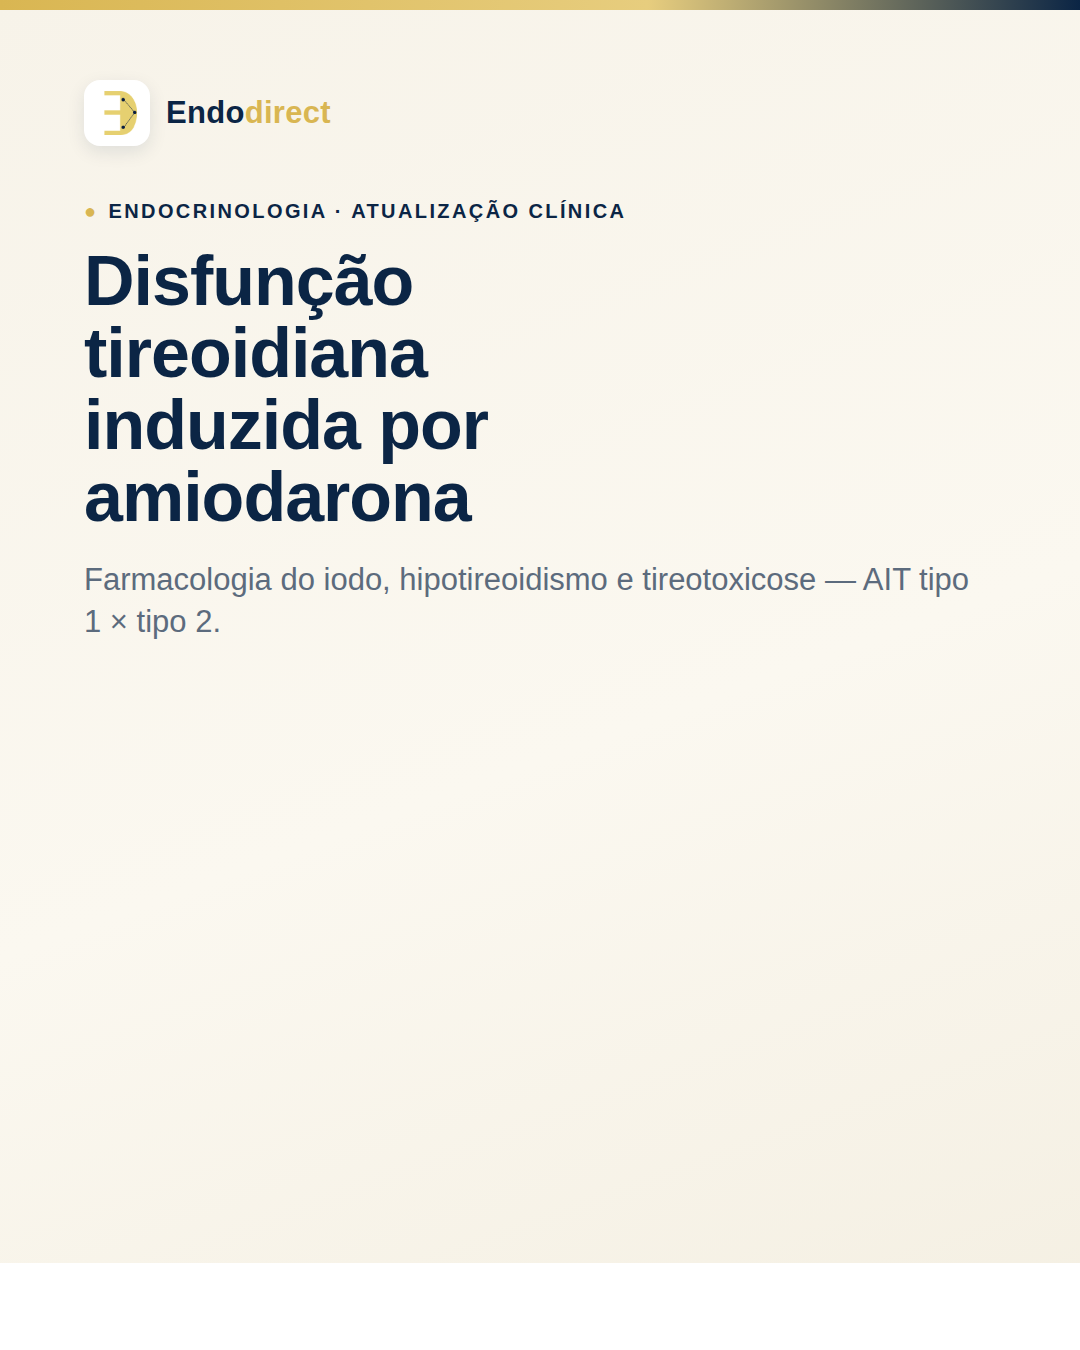
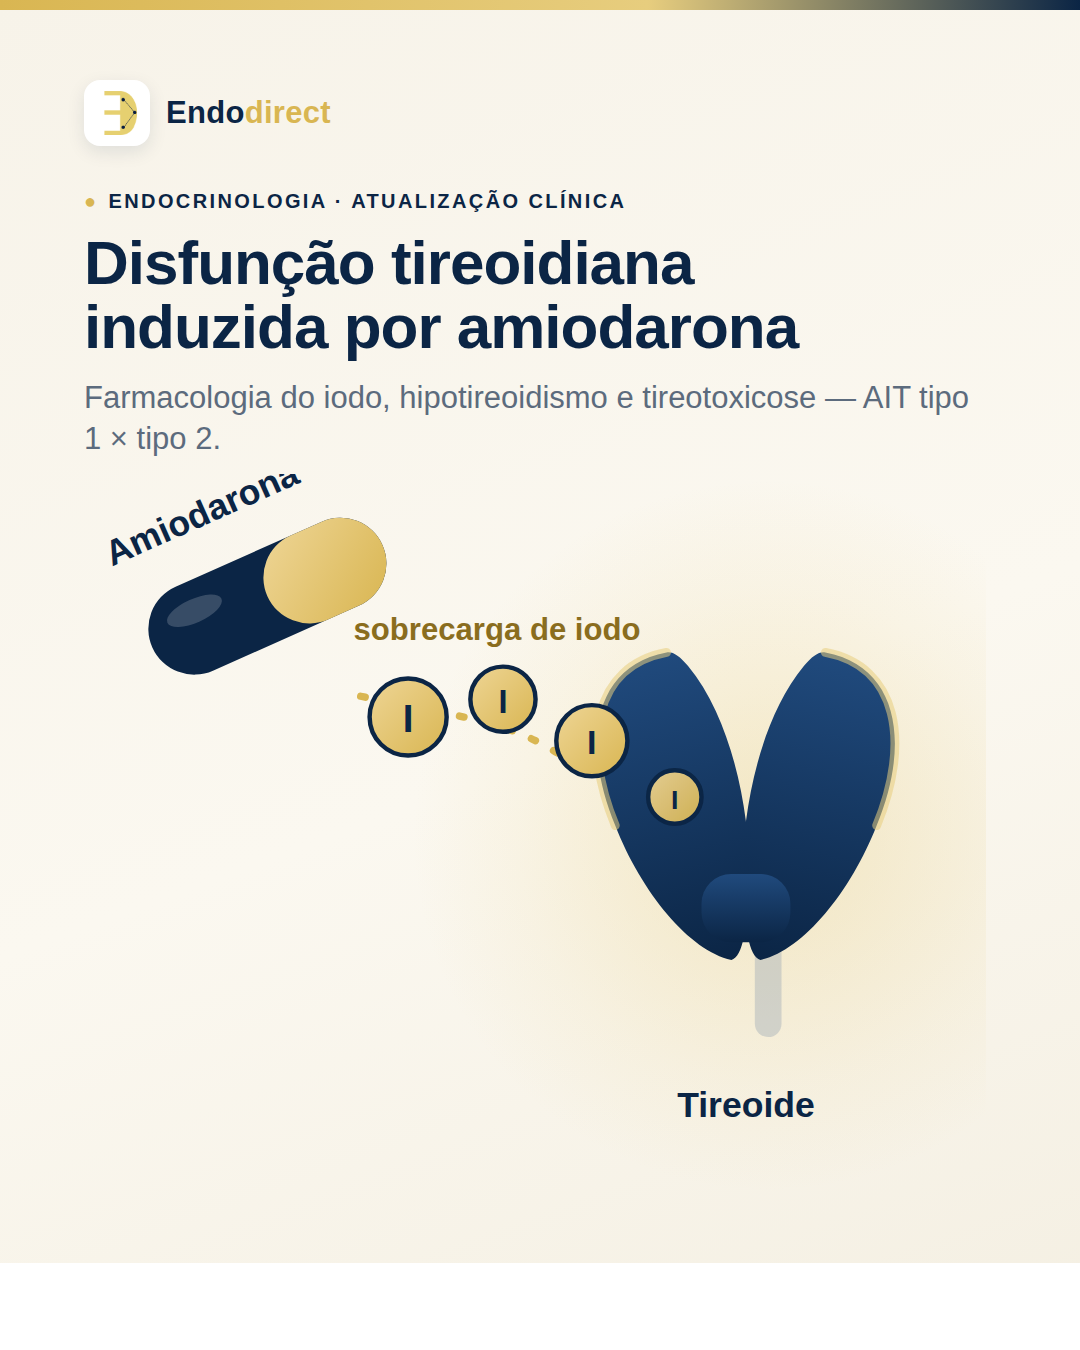
post IG amiodarona: ilustração vetorial (amiodarona → iodo → tireoide) na capa

diff --git a/scratchpad/ig_amiodarona/canva.html b/scratchpad/ig_amiodarona/canva.html
@@ -80,9 +80,42 @@ html,body{width:auto;height:auto;background:#fff}
 </style></head><body>
 <section class="slide" data-document-role="page" data-label="Capa">
[1 lines of base64/hex data omitted]
-  <div class="kicker"><span class="n">●</span>Endocrinologia · Atualização clínica</div>
-  <h1>Disfunção<br>tireoidiana<br>induzida por<br>amiodarona</h1>
-  <div class="sub">Farmacologia do iodo, hipotireoidismo e tireotoxicose — AIT tipo 1 × tipo 2.</div>
+  <div class="kicker" style="margin-top:44px"><span class="n">●</span>Endocrinologia · Atualização clínica</div>
+  <h1 style="margin-top:18px;font-size:62px">Disfunção tireoidiana<br>induzida por amiodarona</h1>
+  <div class="sub" style="margin-top:18px">Farmacologia do iodo, hipotireoidismo e tireotoxicose — AIT tipo 1 × tipo 2.</div>
+  <div style="margin-top:14px;text-align:center"><svg viewBox="120 86 602 486" xmlns="http://www.w3.org/2000/svg" style="width:892px;height:auto">
+  <defs>
+    <radialGradient id="halo" cx="50%" cy="50%" r="50%">
+      <stop offset="0%" stop-color="#e7cd7e" stop-opacity=".40"/><stop offset="70%" stop-color="#e7cd7e" stop-opacity=".10"/><stop offset="100%" stop-color="#e7cd7e" stop-opacity="0"/>
+    </radialGradient>
+    <linearGradient id="gnavy" x1="0" y1="0" x2="0" y2="1"><stop offset="0%" stop-color="#204a7d"/><stop offset="100%" stop-color="#0b2545"/></linearGradient>
+    <linearGradient id="ggold" x1="0" y1="0" x2="1" y2="1"><stop offset="0%" stop-color="#eed595"/><stop offset="100%" stop-color="#d9b652"/></linearGradient>
+  </defs>
+  <circle cx="575" cy="330" r="240" fill="url(#halo)"/>
+  <g>
+    <rect x="566" y="392" width="18" height="74" rx="9" fill="#9aa7b4" opacity=".40"/>
+    <path d="M0,-96 C50,-98 70,-50 60,10 C53,58 30,104 4,116 C-4,116 -12,96 -20,66 C-30,26 -34,-40 -12,-84 C-8,-92 -4,-96 0,-96 Z" transform="translate(592 300) rotate(13)" fill="url(#gnavy)"/>
+    <path d="M0,-96 C-50,-98 -70,-50 -60,10 C-53,58 -30,104 -4,116 C4,116 12,96 20,66 C30,26 34,-40 12,-84 C8,-92 4,-96 0,-96 Z" transform="translate(528 300) rotate(-13)" fill="url(#gnavy)"/>
+    <rect x="530" y="356" width="60" height="46" rx="20" fill="url(#gnavy)"/>
+    <path d="M0,-96 C50,-98 70,-50 60,10" transform="translate(592 300) rotate(13)" fill="none" stroke="#e7cd7e" stroke-width="6" opacity=".55" stroke-linecap="round"/>
+    <path d="M0,-96 C-50,-98 -70,-50 -60,10" transform="translate(528 300) rotate(-13)" fill="none" stroke="#e7cd7e" stroke-width="6" opacity=".55" stroke-linecap="round"/>
+  </g>
+  <g transform="rotate(-24 230 165)">
+    <rect x="150" y="140" width="170" height="62" rx="31" fill="#0b2545"/>
+    <rect x="235" y="140" width="85" height="62" rx="31" fill="url(#ggold)"/>
+    <ellipse cx="186" cy="160" rx="20" ry="8" fill="#ffffff" opacity=".18"/>
+  </g>
+  <path d="M300 236 C372 252 404 250 452 288" fill="none" stroke="#d9b652" stroke-width="5" stroke-dasharray="3 14" stroke-linecap="round"/>
+  <g font-family="'Segoe UI',Arial,sans-serif" font-weight="800" text-anchor="middle">
+    <g><circle cx="332" cy="250" r="26" fill="url(#ggold)" stroke="#0b2545" stroke-width="3"/><text x="332" y="260" font-size="26" fill="#0b2545">I</text></g>
+    <g><circle cx="396" cy="238" r="22" fill="url(#ggold)" stroke="#0b2545" stroke-width="3"/><text x="396" y="247" font-size="22" fill="#0b2545">I</text></g>
+    <g><circle cx="456" cy="266" r="24" fill="url(#ggold)" stroke="#0b2545" stroke-width="3"/><text x="456" y="275" font-size="23" fill="#0b2545">I</text></g>
+    <g opacity=".95"><circle cx="512" cy="304" r="18" fill="url(#ggold)" stroke="#0b2545" stroke-width="3"/><text x="512" y="312" font-size="18" fill="#0b2545">I</text></g>
+  </g>
+  <text x="196" y="120" font-family="'Segoe UI',Arial,sans-serif" font-size="24" font-weight="800" fill="#0b2545" text-anchor="middle" transform="rotate(-24 196 120)">Amiodarona</text>
+  <text x="392" y="198" font-family="'Segoe UI',Arial,sans-serif" font-size="21" font-weight="700" fill="#8a6d1e" text-anchor="middle">sobrecarga de iodo</text>
+  <text x="560" y="520" font-family="'Segoe UI',Arial,sans-serif" font-size="24" font-weight="800" fill="#0b2545" text-anchor="middle">Tireoide</text>
+</svg></div>
   <div class="foot"><span class="hd">@endodirect</span><span class="swipe">arraste →</span></div>
 </section>
 <section class="slide" data-document-role="page" data-label="Farmacologia (carga de iodo)">

diff --git a/scratchpad/ig_amiodarona/slide1.html b/scratchpad/ig_amiodarona/slide1.html
@@ -77,8 +77,41 @@ td.k{font-weight:800;color:var(--navy)}
   font-weight:700;color:var(--navy);box-shadow:0 6px 16px rgba(11,37,69,.06)}
 </style></head><body><div class="slide">
[1 lines of base64/hex data omitted]
-  <div class="kicker"><span class="n">●</span>Endocrinologia · Atualização clínica</div>
-  <h1>Disfunção<br>tireoidiana<br>induzida por<br>amiodarona</h1>
-  <div class="sub">Farmacologia do iodo, hipotireoidismo e tireotoxicose — AIT tipo 1 × tipo 2.</div>
+  <div class="kicker" style="margin-top:44px"><span class="n">●</span>Endocrinologia · Atualização clínica</div>
+  <h1 style="margin-top:18px;font-size:62px">Disfunção tireoidiana<br>induzida por amiodarona</h1>
+  <div class="sub" style="margin-top:18px">Farmacologia do iodo, hipotireoidismo e tireotoxicose — AIT tipo 1 × tipo 2.</div>
+  <div style="margin-top:14px;text-align:center"><svg viewBox="120 86 602 486" xmlns="http://www.w3.org/2000/svg" style="width:892px;height:auto">
+  <defs>
+    <radialGradient id="halo" cx="50%" cy="50%" r="50%">
+      <stop offset="0%" stop-color="#e7cd7e" stop-opacity=".40"/><stop offset="70%" stop-color="#e7cd7e" stop-opacity=".10"/><stop offset="100%" stop-color="#e7cd7e" stop-opacity="0"/>
+    </radialGradient>
+    <linearGradient id="gnavy" x1="0" y1="0" x2="0" y2="1"><stop offset="0%" stop-color="#204a7d"/><stop offset="100%" stop-color="#0b2545"/></linearGradient>
+    <linearGradient id="ggold" x1="0" y1="0" x2="1" y2="1"><stop offset="0%" stop-color="#eed595"/><stop offset="100%" stop-color="#d9b652"/></linearGradient>
+  </defs>
+  <circle cx="575" cy="330" r="240" fill="url(#halo)"/>
+  <g>
+    <rect x="566" y="392" width="18" height="74" rx="9" fill="#9aa7b4" opacity=".40"/>
+    <path d="M0,-96 C50,-98 70,-50 60,10 C53,58 30,104 4,116 C-4,116 -12,96 -20,66 C-30,26 -34,-40 -12,-84 C-8,-92 -4,-96 0,-96 Z" transform="translate(592 300) rotate(13)" fill="url(#gnavy)"/>
+    <path d="M0,-96 C-50,-98 -70,-50 -60,10 C-53,58 -30,104 -4,116 C4,116 12,96 20,66 C30,26 34,-40 12,-84 C8,-92 4,-96 0,-96 Z" transform="translate(528 300) rotate(-13)" fill="url(#gnavy)"/>
+    <rect x="530" y="356" width="60" height="46" rx="20" fill="url(#gnavy)"/>
+    <path d="M0,-96 C50,-98 70,-50 60,10" transform="translate(592 300) rotate(13)" fill="none" stroke="#e7cd7e" stroke-width="6" opacity=".55" stroke-linecap="round"/>
+    <path d="M0,-96 C-50,-98 -70,-50 -60,10" transform="translate(528 300) rotate(-13)" fill="none" stroke="#e7cd7e" stroke-width="6" opacity=".55" stroke-linecap="round"/>
+  </g>
+  <g transform="rotate(-24 230 165)">
+    <rect x="150" y="140" width="170" height="62" rx="31" fill="#0b2545"/>
+    <rect x="235" y="140" width="85" height="62" rx="31" fill="url(#ggold)"/>
+    <ellipse cx="186" cy="160" rx="20" ry="8" fill="#ffffff" opacity=".18"/>
+  </g>
+  <path d="M300 236 C372 252 404 250 452 288" fill="none" stroke="#d9b652" stroke-width="5" stroke-dasharray="3 14" stroke-linecap="round"/>
+  <g font-family="'Segoe UI',Arial,sans-serif" font-weight="800" text-anchor="middle">
+    <g><circle cx="332" cy="250" r="26" fill="url(#ggold)" stroke="#0b2545" stroke-width="3"/><text x="332" y="260" font-size="26" fill="#0b2545">I</text></g>
+    <g><circle cx="396" cy="238" r="22" fill="url(#ggold)" stroke="#0b2545" stroke-width="3"/><text x="396" y="247" font-size="22" fill="#0b2545">I</text></g>
+    <g><circle cx="456" cy="266" r="24" fill="url(#ggold)" stroke="#0b2545" stroke-width="3"/><text x="456" y="275" font-size="23" fill="#0b2545">I</text></g>
+    <g opacity=".95"><circle cx="512" cy="304" r="18" fill="url(#ggold)" stroke="#0b2545" stroke-width="3"/><text x="512" y="312" font-size="18" fill="#0b2545">I</text></g>
+  </g>
+  <text x="196" y="120" font-family="'Segoe UI',Arial,sans-serif" font-size="24" font-weight="800" fill="#0b2545" text-anchor="middle" transform="rotate(-24 196 120)">Amiodarona</text>
+  <text x="392" y="198" font-family="'Segoe UI',Arial,sans-serif" font-size="21" font-weight="700" fill="#8a6d1e" text-anchor="middle">sobrecarga de iodo</text>
+  <text x="560" y="520" font-family="'Segoe UI',Arial,sans-serif" font-size="24" font-weight="800" fill="#0b2545" text-anchor="middle">Tireoide</text>
+</svg></div>
   <div class="foot"><span class="hd">@endodirect</span><span class="swipe">arraste →</span></div>
 </div></body></html>

diff --git a/scratchpad/ig_amiodarona/build_slides.js b/scratchpad/ig_amiodarona/build_slides.js
@@ -81,6 +81,41 @@ td.k{font-weight:800;color:var(--navy)}
 `;
 
 function brand(){return `<div class="brand"><div class="badge"><img src="${LOGO}"></div><div class="wm">Endo<b>direct</b></div></div>`;}
+
+// Ilustração vetorial: amiodarona (cápsula) liberando iodo (I) sobre a tireoide.
+const ILLUS=`<svg viewBox="120 86 602 486" xmlns="http://www.w3.org/2000/svg" style="width:892px;height:auto">
+  <defs>
+    <radialGradient id="halo" cx="50%" cy="50%" r="50%">
+      <stop offset="0%" stop-color="#e7cd7e" stop-opacity=".40"/><stop offset="70%" stop-color="#e7cd7e" stop-opacity=".10"/><stop offset="100%" stop-color="#e7cd7e" stop-opacity="0"/>
+    </radialGradient>
+    <linearGradient id="gnavy" x1="0" y1="0" x2="0" y2="1"><stop offset="0%" stop-color="#204a7d"/><stop offset="100%" stop-color="#0b2545"/></linearGradient>
+    <linearGradient id="ggold" x1="0" y1="0" x2="1" y2="1"><stop offset="0%" stop-color="#eed595"/><stop offset="100%" stop-color="#d9b652"/></linearGradient>
+  </defs>
+  <circle cx="575" cy="330" r="240" fill="url(#halo)"/>
+  <g>
+    <rect x="566" y="392" width="18" height="74" rx="9" fill="#9aa7b4" opacity=".40"/>
+    <path d="M0,-96 C50,-98 70,-50 60,10 C53,58 30,104 4,116 C-4,116 -12,96 -20,66 C-30,26 -34,-40 -12,-84 C-8,-92 -4,-96 0,-96 Z" transform="translate(592 300) rotate(13)" fill="url(#gnavy)"/>
+    <path d="M0,-96 C-50,-98 -70,-50 -60,10 C-53,58 -30,104 -4,116 C4,116 12,96 20,66 C30,26 34,-40 12,-84 C8,-92 4,-96 0,-96 Z" transform="translate(528 300) rotate(-13)" fill="url(#gnavy)"/>
+    <rect x="530" y="356" width="60" height="46" rx="20" fill="url(#gnavy)"/>
+    <path d="M0,-96 C50,-98 70,-50 60,10" transform="translate(592 300) rotate(13)" fill="none" stroke="#e7cd7e" stroke-width="6" opacity=".55" stroke-linecap="round"/>
+    <path d="M0,-96 C-50,-98 -70,-50 -60,10" transform="translate(528 300) rotate(-13)" fill="none" stroke="#e7cd7e" stroke-width="6" opacity=".55" stroke-linecap="round"/>
+  </g>
+  <g transform="rotate(-24 230 165)">
+    <rect x="150" y="140" width="170" height="62" rx="31" fill="#0b2545"/>
+    <rect x="235" y="140" width="85" height="62" rx="31" fill="url(#ggold)"/>
+    <ellipse cx="186" cy="160" rx="20" ry="8" fill="#ffffff" opacity=".18"/>
+  </g>
+  <path d="M300 236 C372 252 404 250 452 288" fill="none" stroke="#d9b652" stroke-width="5" stroke-dasharray="3 14" stroke-linecap="round"/>
+  <g font-family="'Segoe UI',Arial,sans-serif" font-weight="800" text-anchor="middle">
+    <g><circle cx="332" cy="250" r="26" fill="url(#ggold)" stroke="#0b2545" stroke-width="3"/><text x="332" y="260" font-size="26" fill="#0b2545">I</text></g>
+    <g><circle cx="396" cy="238" r="22" fill="url(#ggold)" stroke="#0b2545" stroke-width="3"/><text x="396" y="247" font-size="22" fill="#0b2545">I</text></g>
+    <g><circle cx="456" cy="266" r="24" fill="url(#ggold)" stroke="#0b2545" stroke-width="3"/><text x="456" y="275" font-size="23" fill="#0b2545">I</text></g>
+    <g opacity=".95"><circle cx="512" cy="304" r="18" fill="url(#ggold)" stroke="#0b2545" stroke-width="3"/><text x="512" y="312" font-size="18" fill="#0b2545">I</text></g>
+  </g>
+  <text x="196" y="120" font-family="'Segoe UI',Arial,sans-serif" font-size="24" font-weight="800" fill="#0b2545" text-anchor="middle" transform="rotate(-24 196 120)">Amiodarona</text>
+  <text x="392" y="198" font-family="'Segoe UI',Arial,sans-serif" font-size="21" font-weight="700" fill="#8a6d1e" text-anchor="middle">sobrecarga de iodo</text>
+  <text x="560" y="520" font-family="'Segoe UI',Arial,sans-serif" font-size="24" font-weight="800" fill="#0b2545" text-anchor="middle">Tireoide</text>
+</svg>`;
 function page(inner){return `<!doctype html><html><head><meta charset="utf-8"><style>${CSS}</style></head><body><div class="slide">${inner}</div></body></html>`;}
 
 const slides=[];
@@ -88,9 +123,10 @@ const slides=[];
 // SLIDE 1 — capa
 slides.push(page(`
   ${brand()}
-  <div class="kicker"><span class="n">●</span>Endocrinologia · Atualização clínica</div>
-  <h1>Disfunção<br>tireoidiana<br>induzida por<br>amiodarona</h1>
-  <div class="sub">Farmacologia do iodo, hipotireoidismo e tireotoxicose — AIT tipo 1 × tipo 2.</div>
+  <div class="kicker" style="margin-top:44px"><span class="n">●</span>Endocrinologia · Atualização clínica</div>
+  <h1 style="margin-top:18px;font-size:62px">Disfunção tireoidiana<br>induzida por amiodarona</h1>
+  <div class="sub" style="margin-top:18px">Farmacologia do iodo, hipotireoidismo e tireotoxicose — AIT tipo 1 × tipo 2.</div>
+  <div style="margin-top:14px;text-align:center">${ILLUS}</div>
   <div class="foot"><span class="hd">@endodirect</span><span class="swipe">arraste →</span></div>
 `));
 

diff --git a/scratchpad/ig_amiodarona/illus_test.html b/scratchpad/ig_amiodarona/illus_test.html
@@ -1,0 +1,62 @@
+<!doctype html><html><head><meta charset="utf-8"><style>
+*{margin:0;padding:0;box-sizing:border-box}
+html,body{width:920px;height:640px;background:#f7f3e9;font-family:'Segoe UI',Arial,sans-serif}
+.wrap{width:920px;height:640px;display:flex;align-items:center;justify-content:center}
+</style></head><body>
+<div class="wrap">
+<svg width="900" height="620" viewBox="0 0 900 620" xmlns="http://www.w3.org/2000/svg">
+  <defs>
+    <radialGradient id="halo" cx="50%" cy="50%" r="50%">
+      <stop offset="0%" stop-color="#e7cd7e" stop-opacity=".40"/>
+      <stop offset="70%" stop-color="#e7cd7e" stop-opacity=".10"/>
+      <stop offset="100%" stop-color="#e7cd7e" stop-opacity="0"/>
+    </radialGradient>
+    <linearGradient id="navy" x1="0" y1="0" x2="0" y2="1">
+      <stop offset="0%" stop-color="#204a7d"/><stop offset="100%" stop-color="#0b2545"/>
+    </linearGradient>
+    <linearGradient id="gold" x1="0" y1="0" x2="1" y2="1">
+      <stop offset="0%" stop-color="#eed595"/><stop offset="100%" stop-color="#d9b652"/>
+    </linearGradient>
+  </defs>
+
+  <circle cx="575" cy="330" r="240" fill="url(#halo)"/>
+
+  <!-- TIREOIDE (borboleta): 2 lobos em gota (polo inferior afilado) + istmo -->
+  <g>
+    <rect x="566" y="392" width="18" height="74" rx="9" fill="#9aa7b4" opacity=".40"/>
+    <path d="M0,-96 C50,-98 70,-50 60,10 C53,58 30,104 4,116 C-4,116 -12,96 -20,66 C-30,26 -34,-40 -12,-84 C-8,-92 -4,-96 0,-96 Z"
+          transform="translate(592 300) rotate(13)" fill="url(#navy)"/>
+    <path d="M0,-96 C-50,-98 -70,-50 -60,10 C-53,58 -30,104 -4,116 C4,116 12,96 20,66 C30,26 34,-40 12,-84 C8,-92 4,-96 0,-96 Z"
+          transform="translate(528 300) rotate(-13)" fill="url(#navy)"/>
+    <!-- istmo (banda baixa conectando os lobos) -->
+    <rect x="530" y="356" width="60" height="46" rx="20" fill="url(#navy)"/>
+    <!-- rim dourado nos polos superiores -->
+    <path d="M0,-96 C50,-98 70,-50 60,10" transform="translate(592 300) rotate(13)" fill="none" stroke="#e7cd7e" stroke-width="6" opacity=".55" stroke-linecap="round"/>
+    <path d="M0,-96 C-50,-98 -70,-50 -60,10" transform="translate(528 300) rotate(-13)" fill="none" stroke="#e7cd7e" stroke-width="6" opacity=".55" stroke-linecap="round"/>
+  </g>
+
+  <!-- CÁPSULA (amiodarona) -->
+  <g transform="rotate(-24 230 165)">
+    <rect x="150" y="140" width="170" height="62" rx="31" fill="#0b2545"/>
+    <rect x="235" y="140" width="85" height="62" rx="31" fill="url(#gold)"/>
+    <ellipse cx="186" cy="160" rx="20" ry="8" fill="#ffffff" opacity=".18"/>
+  </g>
+
+  <!-- seta pontilhada cápsula -> tireoide -->
+  <path d="M300 236 C372 252 404 250 452 288" fill="none" stroke="#d9b652" stroke-width="5" stroke-dasharray="3 14" stroke-linecap="round"/>
+
+  <!-- ÁTOMOS DE IODO (I) fluindo para a glândula -->
+  <g font-family="'Segoe UI',Arial,sans-serif" font-weight="800" text-anchor="middle">
+    <g><circle cx="332" cy="250" r="26" fill="url(#gold)" stroke="#0b2545" stroke-width="3"/><text x="332" y="260" font-size="26" fill="#0b2545">I</text></g>
+    <g><circle cx="396" cy="238" r="22" fill="url(#gold)" stroke="#0b2545" stroke-width="3"/><text x="396" y="247" font-size="22" fill="#0b2545">I</text></g>
+    <g><circle cx="456" cy="266" r="24" fill="url(#gold)" stroke="#0b2545" stroke-width="3"/><text x="456" y="275" font-size="23" fill="#0b2545">I</text></g>
+    <g opacity=".95"><circle cx="512" cy="304" r="18" fill="url(#gold)" stroke="#0b2545" stroke-width="3"/><text x="512" y="312" font-size="18" fill="#0b2545">I</text></g>
+  </g>
+
+  <!-- rótulos -->
+  <text x="196" y="120" font-family="'Segoe UI',Arial,sans-serif" font-size="24" font-weight="800" fill="#0b2545" text-anchor="middle" transform="rotate(-24 196 120)">Amiodarona</text>
+  <text x="392" y="198" font-family="'Segoe UI',Arial,sans-serif" font-size="21" font-weight="700" fill="#8a6d1e" text-anchor="middle">sobrecarga de iodo</text>
+  <text x="560" y="520" font-family="'Segoe UI',Arial,sans-serif" font-size="24" font-weight="800" fill="#0b2545" text-anchor="middle">Tireoide</text>
+</svg>
+</div>
+</body></html>
